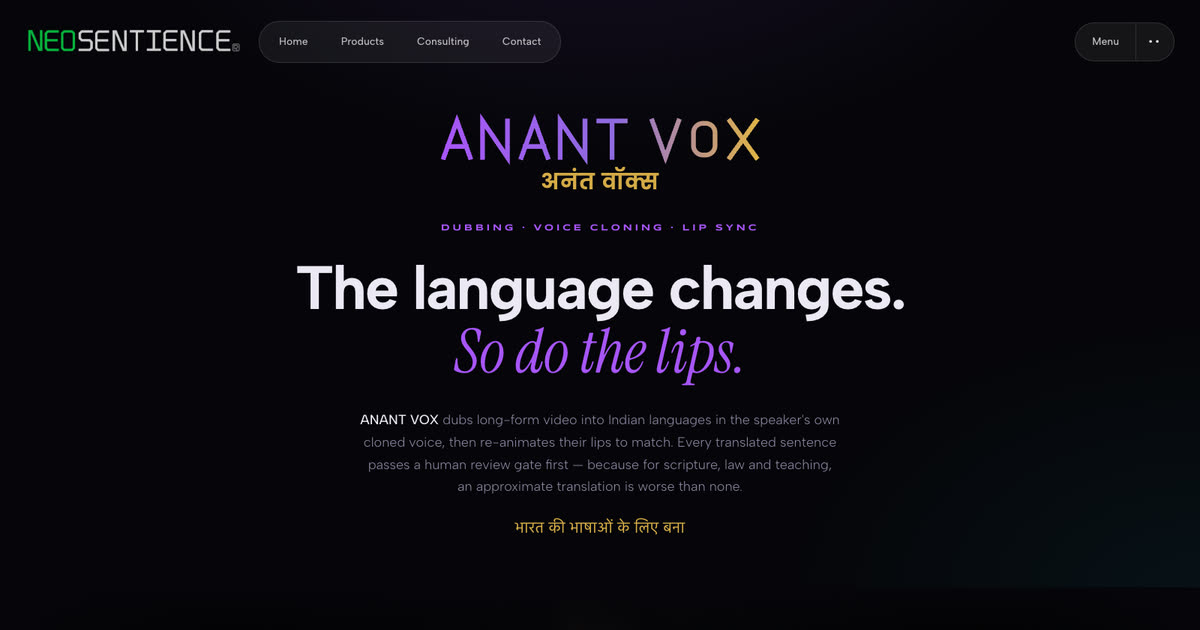
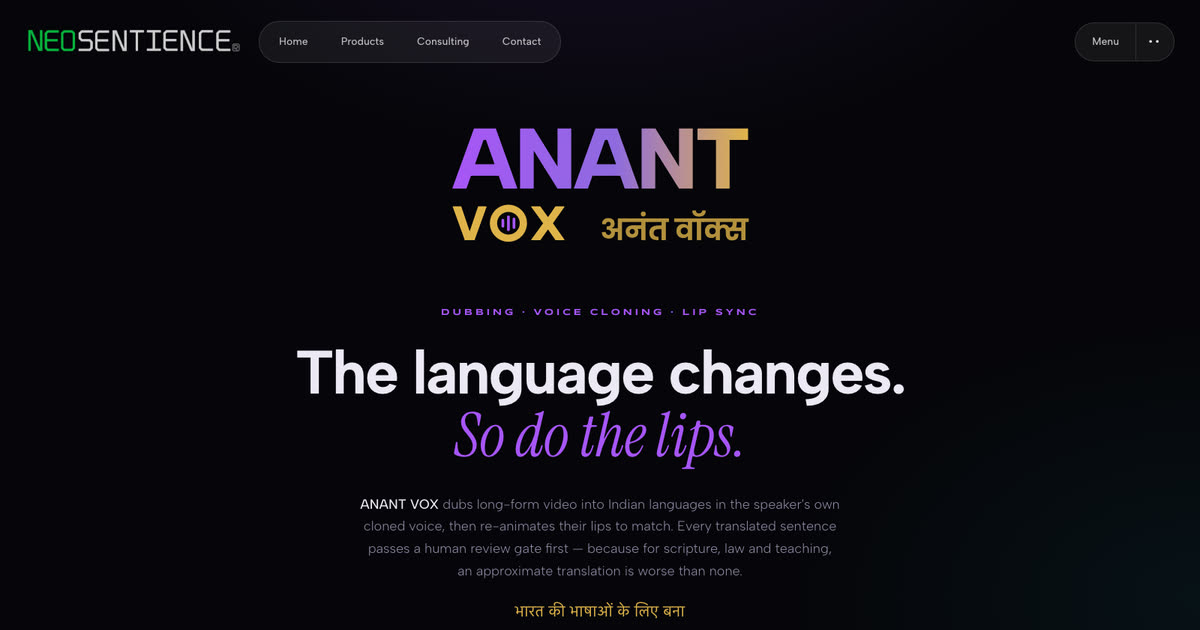
VAANI Studio → ANANT VOX: sans logotype with voice mark in the O, bilingual lockup, page rename with redirect, all references, new preview image

Changed region(s): [[0.2467, 0.4222, 0.7708, 0.9952], [0.37, 0.181, 0.6475, 0.3921]]

diff --git a/index.html b/index.html
@@ -374,7 +374,7 @@ footer{padding:46px 0 60px}
       </a>
       <a class="pcard reveal" style="--c:var(--c-anantvox)" href="anant-vox.html">
         <div class="pcard-top"><span class="pcard-cat">Dubbing AI</span><span class="pcard-status">Built</span></div>
-        <img src="anantvox-assets/anantvox-wordmark.svg" alt="ANANT VOX" class="pcard-logo lg" style="height:35px">
+        <img src="anantvox-assets/anantvox-wordmark.svg" alt="ANANT VOX" class="pcard-logo lg" style="height:34px">
         <div class="tagline">The language changes. <span style="white-space:nowrap">So do the lips.</span></div>
         <p>Dubs long-form video into Indian languages in the speaker's own cloned voice, then re-animates their lips to match. Every translated sentence passes a human review gate first — the feature no other dubbing tool has.</p>
         <div class="pcard-foot"><span>Own product</span><span class="pcard-link">Product →</span></div>

diff --git a/neosentience.html b/neosentience.html
@@ -374,7 +374,7 @@ footer{padding:46px 0 60px}
       </a>
       <a class="pcard reveal" style="--c:var(--c-anantvox)" href="anant-vox.html">
         <div class="pcard-top"><span class="pcard-cat">Dubbing AI</span><span class="pcard-status">Built</span></div>
-        <img src="anantvox-assets/anantvox-wordmark.svg" alt="ANANT VOX" class="pcard-logo lg" style="height:35px">
+        <img src="anantvox-assets/anantvox-wordmark.svg" alt="ANANT VOX" class="pcard-logo lg" style="height:34px">
         <div class="tagline">The language changes. <span style="white-space:nowrap">So do the lips.</span></div>
         <p>Dubs long-form video into Indian languages in the speaker's own cloned voice, then re-animates their lips to match. Every translated sentence passes a human review gate first — the feature no other dubbing tool has.</p>
         <div class="pcard-foot"><span>Own product</span><span class="pcard-link">Product →</span></div>
